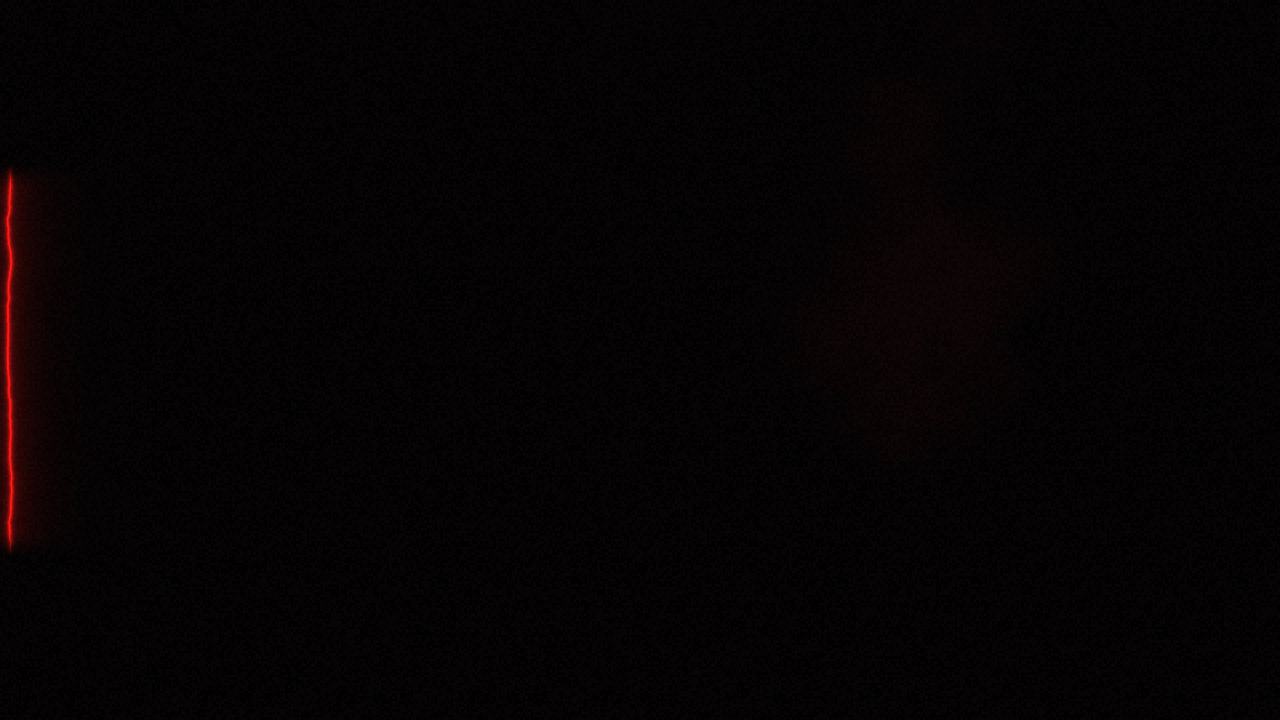
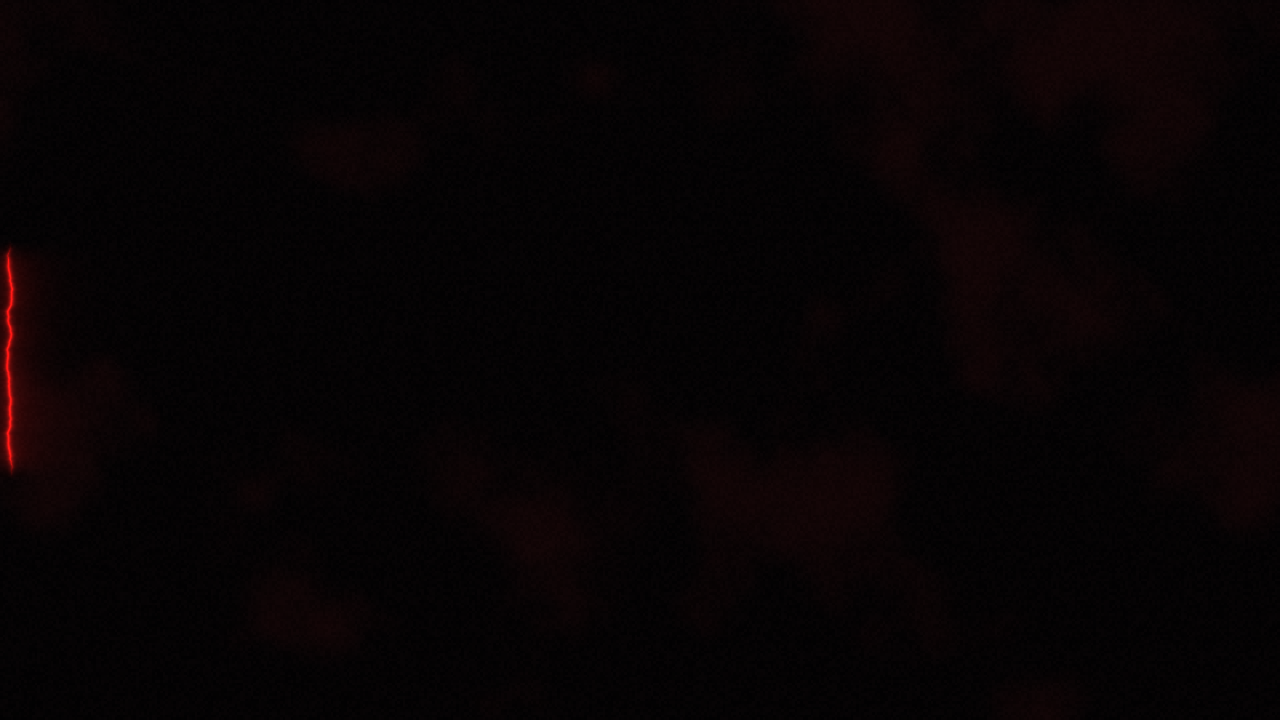
Side menu: hold a torn sliver under the boot animation; refreshed screenshots and docs
The panel now tears open once, right after the boot animation, instead of being
open underneath it and then re-opening. Screenshots re-shot for the revised menu
(auto-open, pulse without folding, orbit only when switched on); plan, README,
release notes and verification record updated (headless 18,849 / 0, windowed
Vulkan 19,558 / 0, no engine errors).

Claude-Session: https://claude.ai/code/session_015vraF6qfCmFTg7LjJGg4j3

Changed region(s): [[0.0, 0.5806, 0.0312, 0.7639], [0.0, 0.2444, 0.0312, 0.4278], [0.0, 0.4583, 0.0312, 0.4889]]

diff --git a/pictures/README.md b/pictures/README.md
@@ -72,4 +72,4 @@
 | [界面审美与光影](界面审美与光影/) | 2026-11-09，Godot 4.6.3，Xvfb + Vulkan（Lavapipe）Forward+，1280×720，`tools/capture/capture_polish.gd`：设置「键位」页（录入中）；触屏布局编辑器（逐个控件、选中「交互」放大到 130 %、网格吸附）与默认触屏布局；光影按画质档对照（流畅／精细／真实的教室白天，流畅／真实的室外傍晚，真实的室外白天；同一时刻、同一机位，平均亮度相近）；新版界面：主菜单、暂停、游戏内界面（时间与状态卡、物品栏、点状准星）、设置画面页、背包 |
 | [建模与光影优化](建模与光影优化/) | 2026-11-10，Godot 4.6.3，Xvfb + Vulkan（Lavapipe）Forward+，1280×720：教室北窗的天光落在课桌与地面上（精细档）；开场教室（新人形、灯管不再过曝）；人形新旧对照（`build/dbg_fig.gd` 式的并排：路人、老师、高个子、长脖子、坐姿）与近景；里世界教室里同学的剪影；材质前后对照（走廊）；坐姿穿模检查的侧视与俯视（`build/` 下的临时脚本拍摄，蓝为旧模型、橙为新模型） |
 | [地面物品与背包界面](地面物品与背包界面/) | 2026-11-11，Godot 4.6.3，Xvfb + Vulkan（Lavapipe）Forward+，1280×720（另一张 960×540），`tools/capture/capture_ground_items.gd`：教学楼一楼教室地上丢下的笔记本、笔与粉笔（白天、熄灯后、熄灯后开手电），靠近时的「拾取」提示；HUD 快捷栏卡片（按键、图、名字）与贴字宽的提示条；新版背包（左格子含空位与容量、右详情与四个操作；选中手机；960×540；空背包；丢弃确认） |
-| [开机动画与侧边主菜单](开机动画与侧边主菜单/) | 2026-11-11，Godot 4.6.3，Xvfb + Vulkan（Lavapipe）Forward+，1280×720（另一张 2520×1080），`tools/capture/capture_side_menu.gd`：开机动画四帧（裂缝、标题浮现、心跳红光、黑幕褪去）；侧边菜单折叠标签、沿脊柱撕裂、横向拉伸、展开与窥视孔、子项、惨绿脉冲坍缩、吸收绿光、褪回血痂色、21:9、减少闪烁静态展开；菜单背后实景环绕的四个角度。撕裂与拉伸两帧为手动定格时间轴（软件渲染太慢） |
+| [开机动画与侧边主菜单](开机动画与侧边主菜单/) | 2026-11-11（同日修订后重拍），Godot 4.6.3，Xvfb + Vulkan（Lavapipe）Forward+，1280×720（另一张 2520×1080），`tools/capture/capture_side_menu.gd`：开机动画四帧（裂缝、标题浮现、心跳红光、黑幕褪去露出脊柱裂片）；进入主菜单时自动沿脊柱撕裂、横向拉伸、展开与窥视孔、子项、惨绿脉冲（面板不坍缩）、吸收绿光、褪回血痂色、21:9、减少闪烁静态展开；打开「主菜单实景环绕」后的四个角度（默认关闭时为静态夜景图）。撕裂与拉伸两帧为手动定格时间轴（软件渲染太慢） |

diff --git a/docs/plan/开机动画与侧边主菜单.md b/docs/plan/开机动画与侧边主菜单.md
@@ -27,6 +27,10 @@
 | 静置降帧 | 已完成 | 正式启动的应用停在主菜单、1.5 秒无输入、无动画且没有打开任何面板时，帧率降到 30（玩家设得更低则按玩家设置），任何输入、动画或面板立即恢复。测试与工具内嵌的应用不受影响 |
 | 后台加载竞态 | 已完成 | 之前 CI 窗口回归报 `Invalid Task ID`：菜单预览发起的后台加载与游戏同步加载同一个校园模型冲突。现在只有正式启动且打开了环绕时才加载，每个后台请求都会被收取一次（建好、离开菜单、任何场景准备加载模型前） |
 
+开机动画期间菜单停在脊柱旁的撕裂细片，动画结束后面板只撕开一次。
+
+修订验收：受影响专项（侧边菜单、菜单、设置、画质、插画界面、选择页、隐藏物品的菜单触摸）818 项 0 失败；完整无窗口回归 **18,849 项、0 失败**；完整 Xvfb＋Vulkan Forward+ 窗口回归 **19,558 项、0 失败**，日志无引擎错误（CI 曾报的 `Invalid Task ID` 不再出现）。截图已按修订后的行为重拍。
+
 性能对照（Xvfb＋Lavapipe 软件 Vulkan，1280×720，同一机器前后对比，只看相对变化）：主菜单展开静置每帧 48.5 ms → 25.0 ms（其中菜单着色器自身约 26 ms → 5.5 ms；没有菜单着色器时为 19.5–22 ms）；打开实景环绕时每帧 176 ms → 149 ms（再加 20 次／秒的重绘上限）。真机 GPU 上的绝对数值另需实测。
 
 ## 原菜单入口的归属
